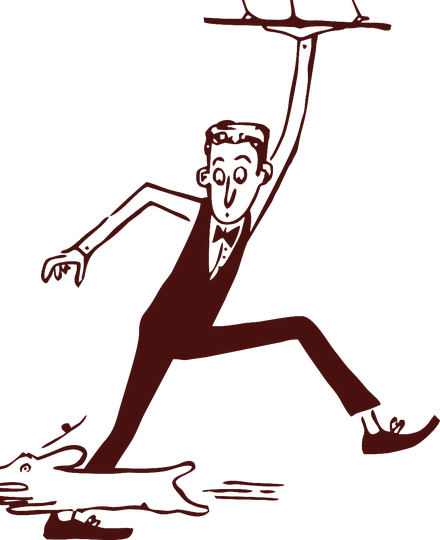
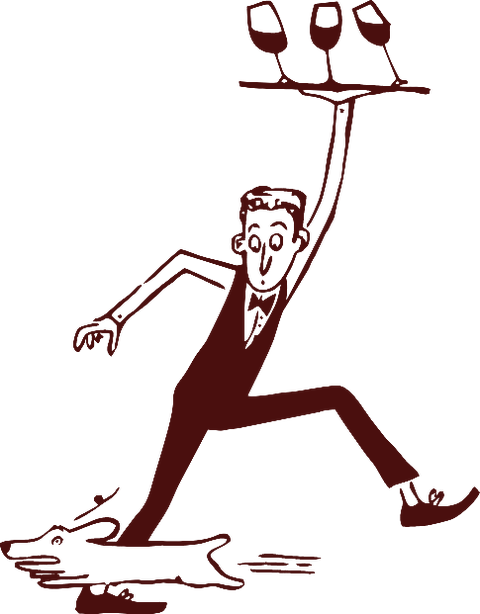
Garçom da lista de presentes na versão completa
Usa a ilustração cheia do garçom (taças e cachorro inteiros) no lugar da
extração que cortava o topo e a lateral.

Claude-Session: https://claude.ai/code/session_01267eLTqaY5nyv3X6eqU5WE

Changed region(s): [[0.0, 0.0, 1.0, 1.0], [0.7386, 0.7111, 0.7682, 0.7407]]

diff --git a/site/assets/base.css b/site/assets/base.css
@@ -267,7 +267,7 @@ details.bloco--acordeao[open] .acordeao-dica { display: none; }
 .ill { display: block; margin: 1rem auto; }
 .ill-venue { width: min(82%, 300px); }
 .ill-tower { width: min(36%, 140px); margin: 0 auto 1.2rem; }
-.ill-waiter { width: min(40%, 150px); margin: 0 auto .4rem; }
+.ill-waiter { width: min(46%, 180px); margin: 0 auto .5rem; }
 .ill-rsvpfig { width: min(74%, 300px); margin: 0 auto .6rem; }
 .ill-angel { width: min(52%, 210px); margin: 0 auto .2rem; }
 .ill-lamp { width: min(32%, 120px); margin: 0 auto .4rem; }
